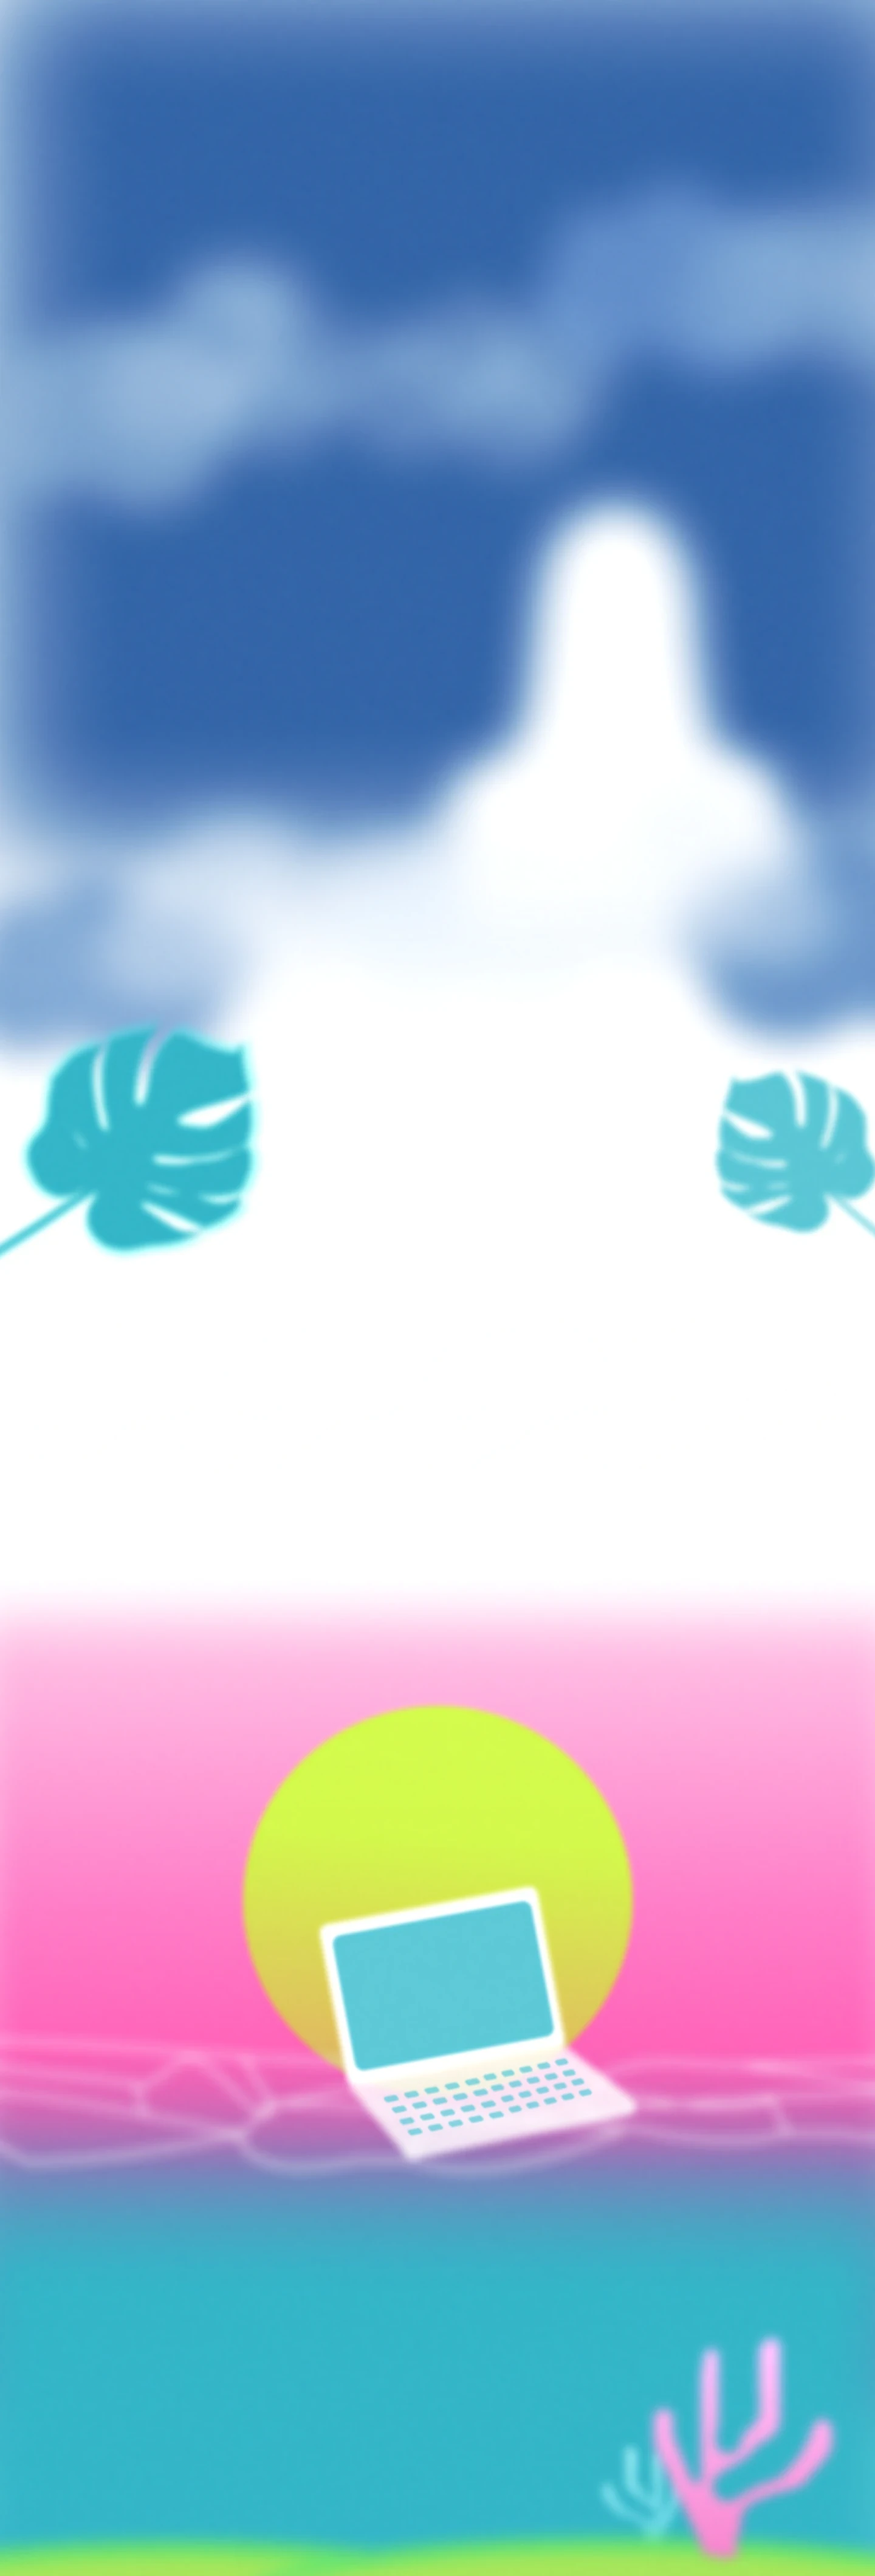
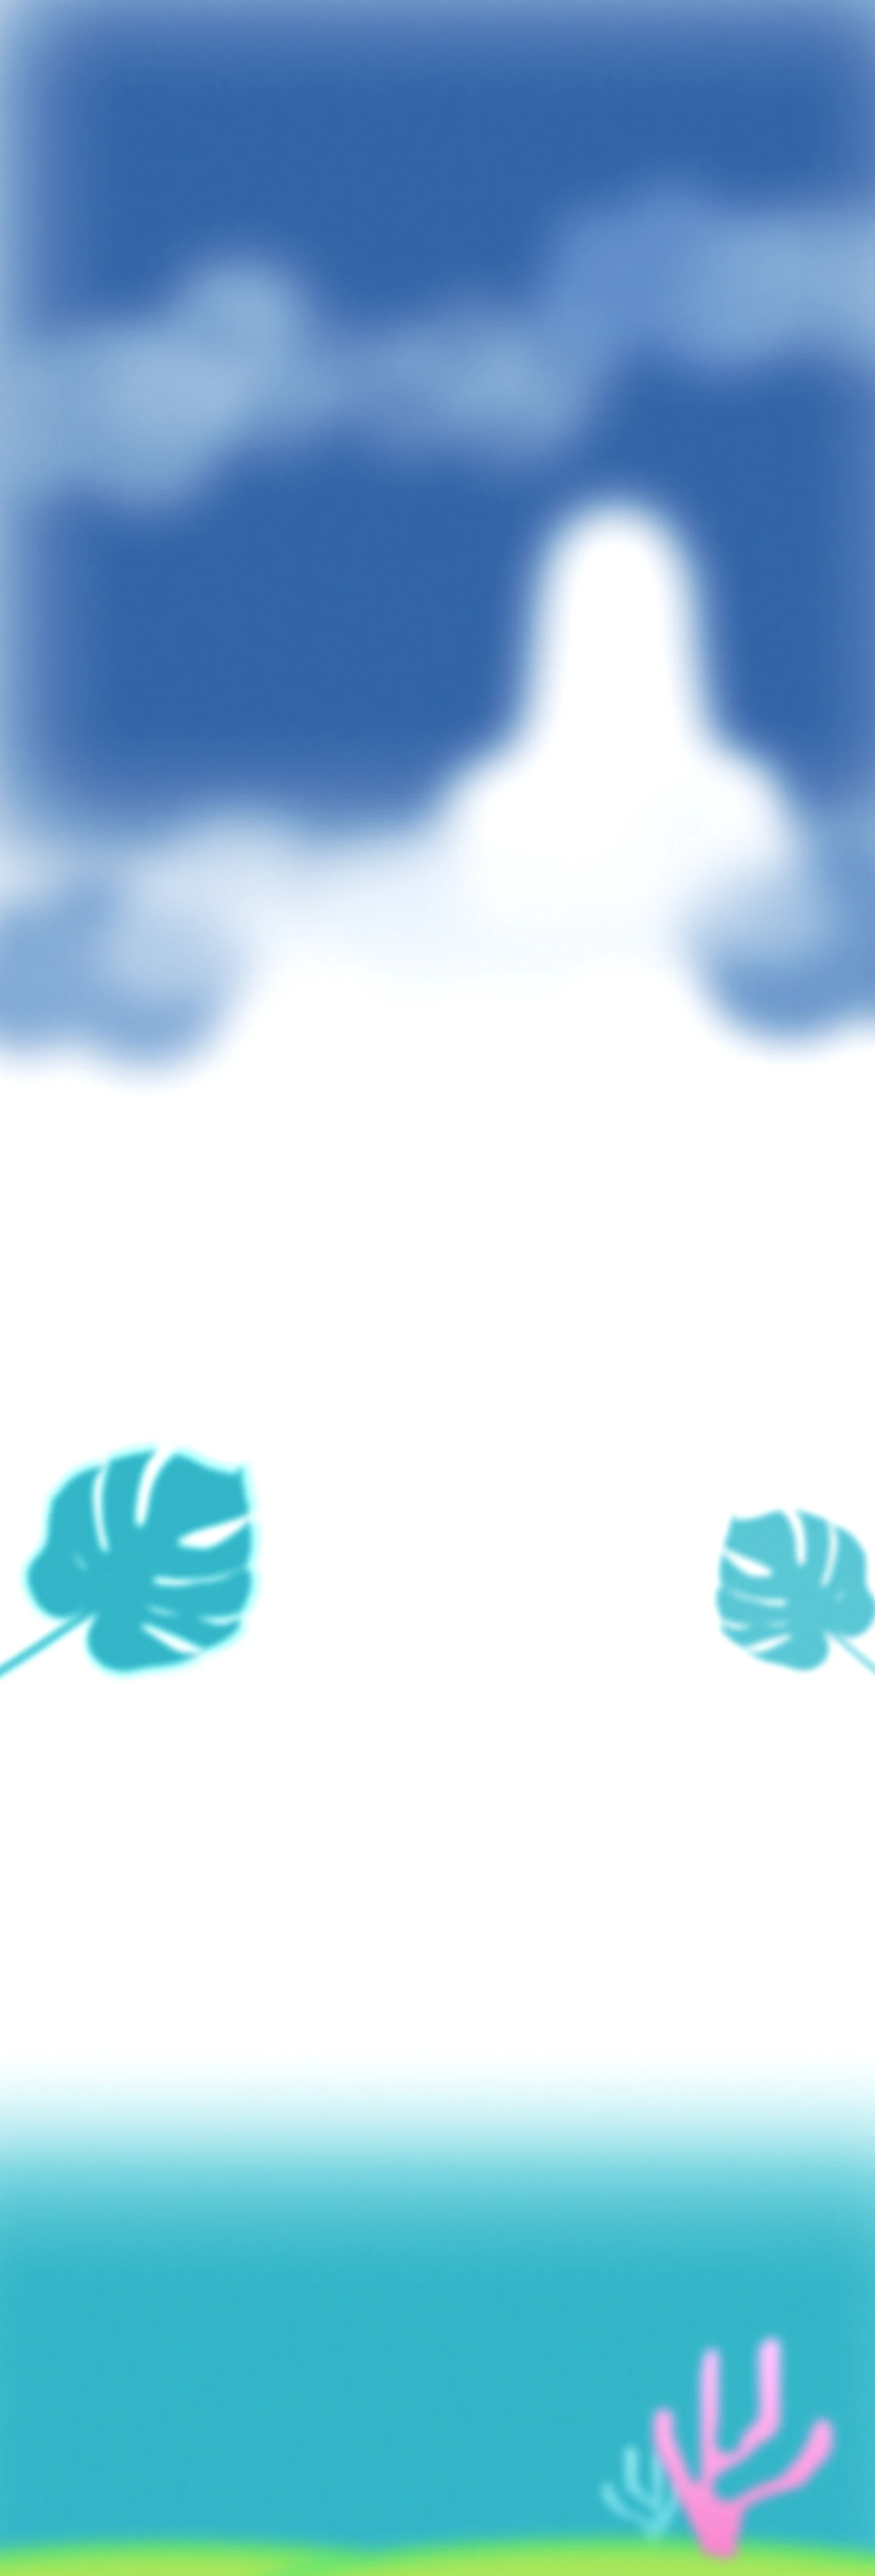
Sentence-case body copy, no pink sunset, scroll-driven sun
- Body copy (intro, hint, email, project sheet and About pop-up text) is no
  longer forced to uppercase; fixed the casing/spacing quirks caps hid.
  Labels and tags stay uppercase.
- Background re-exported from the current Figma design: no pink behind the
  sun, leaves in their new place, no chameleons. Colours re-calibrated against
  the film grain.
- Sun, water lines and laptop are now separate SVG layers (same stacking as
  Figma). As the section scrolls into view the sun travels from small on the
  right to full size in its place behind the laptop.
- Chameleon area scaled to fit the white space above the leaves (peek/eye
  maths now use the stage's on-screen scale).
- Everything still hidden is revealed once the page is scrolled to the bottom.

Claude-Session: https://claude.ai/code/session_01DvA43kwznhfsetrajp2DeL

Changed region(s): [[0.0, 0.5608, 1.0, 0.8723], [0.0, 0.3738, 0.3125, 0.4985], [0.8125, 0.405, 1.0, 0.4985]]

diff --git a/index.html b/index.html
@@ -8,19 +8,25 @@
   <link rel="preconnect" href="https://fonts.googleapis.com">
   <link rel="preconnect" href="https://fonts.gstatic.com" crossorigin>
   <link rel="stylesheet" href="https://fonts.googleapis.com/css2?family=Archivo:wdth,wght@125,400;125,700&family=Italiana&family=Unbounded:wght@300;400;500&display=swap">
-  <link rel="stylesheet" href="styles.css?v=c2dd69b6">
+  <link rel="stylesheet" href="styles.css?v=46f8f333">
   <script>document.documentElement.classList.add('js')</script>
 </head>
 <body>
   <!-- Built from Figma frame "Main" (1440 × 4237). The artwork is one exported
-       background image (minus the bird and fish, layered on top); display headings are outlined SVGs exported from Figma
+       background image (bird, fish, sun, water lines and laptop are separate layers on top); display headings are outlined SVGs exported from Figma
        (exact letterforms); body text, nav, button and icons are live HTML at
        their Figma positions. script.js scales the 1440px stage to the viewport. -->
   <main class="stage" id="home">
 
     <!-- Animated creatures, layered over the background at their Figma positions -->
     <img class="l bird" style="--x:-6.61px;--y:239.23px;--w:1328.29px;--h:558.57px" src="assets/bird.webp" alt="">
+
+    <!-- Sunset: the sun rises from small on the right into place as you scroll (script.js);
+         water lines and laptop sit on top of it, as in Figma -->
+    <img class="l sun" id="sun" style="--x:390px;--y:2796px" src="assets/sun.svg" width="661" height="661" alt="">
+    <img class="l" style="--x:0px;--y:3331px" src="assets/waves.svg" width="1440" height="264" alt="">
     <img class="l fish" style="--x:-171px;--y:3317px;--w:3150px;--h:2100px" src="assets/fish.gif" alt="">
+    <img class="l" style="--x:513.1px;--y:3073px" src="assets/laptop.svg" width="553" height="496" alt="">
 
     <nav class="l reveal nav" style="--d:.35s;--x:1075.5px;--y:34px" aria-label="Main">
       <a href="#home">Home</a>
@@ -37,8 +43,8 @@
     <section class="sec" id="about" style="top:859px" aria-labelledby="hello">
       <h2 class="l reveal type" id="hello" style="--d:0s;--x:178.65px;--y:11.58px"><img src="assets/type-hello.svg" width="306" height="121" alt="Hello,"></h2>
       <div class="l reveal t-intro" style="--d:.15s;--x:176px;--y:156px;--w:473px">
-        <p>I’m Nika ,  a third-year student in Digital Design &amp; Development, currently specialising in Visual Design and Experience Design.</p>
-        <p>Inspired by all kind of creative fields, I’m Passionate about creating useful and inspiring projects.</p>
+        <p>I’m Nika, a third-year student in Digital Design &amp; Development, currently specialising in visual design and experience design.</p>
+        <p>Inspired by all kinds of creative fields, I’m passionate about creating useful and inspiring projects.</p>
       </div>
       <a class="l reveal btn" style="--d:.3s;--x:176px;--y:450px;--w:229px;--h:48px" href="#about" data-about>About me</a>
       <button class="l reveal qbtn" style="--d:.2s;--x:958.66px;--y:131.37px" data-about aria-label="Who is behind the question mark? Meet Nika"><img src="assets/type-question.svg" width="106" height="196" alt=""></button>
@@ -147,8 +153,8 @@
   </section>
   </div>
 
-  <script src="script.js?v=5da16400"></script>
+  <script src="script.js?v=d3dccaa7"></script>
   <script src="about.js?v=37dfe53c"></script>
-  <script src="chameleon.js?v=3ab5d1e9"></script>
+  <script src="chameleon.js?v=43d26cf4"></script>
 </body>
 </html>

diff --git a/styles.css b/styles.css
@@ -115,7 +115,6 @@ body::before {
 .t-intro {
   font: 20px/30px var(--font-body);
   color: var(--ice);
-  text-transform: uppercase;
 }
 .t-intro p + p { margin-top: 30px; }
 
@@ -125,7 +124,6 @@ body::before {
 .t-email {
   font: 20px/27px var(--font-body);
   color: var(--ice);
-  text-transform: uppercase;
   text-decoration: none;
 }
 .t-email:hover { text-decoration: underline; }
@@ -160,9 +158,7 @@ a:focus-visible { outline: 2px solid var(--white); outline-offset: 4px; }
 }
 
 .hint {
-  font: 14px/1.6 var(--font-body);
-  letter-spacing: .04em;
-  text-transform: uppercase;
+  font: 15px/1.6 var(--font-body);
   text-align: center;
   color: var(--c-body);
   white-space: normal !important;
@@ -176,7 +172,8 @@ a:focus-visible { outline: 2px solid var(--white); outline-offset: 4px; }
           mask: linear-gradient(180deg, transparent, #000 25%, #000 75%, transparent);
 }
 
-.cham-stage { position: absolute; left: 130px; top: 330px; width: 1180px; height: 600px; }
+/* scaled to fit the white space between "Select the projects" and the leaves */
+.cham-stage { position: absolute; left: 130px; top: 290px; width: 1180px; height: 600px; transform: scale(.82); transform-origin: 50% 0; }
 
 .bigcham { position: absolute; left: 50%; top: 50%; width: 620px; aspect-ratio: 600 / 400; transform: translate(-50%, -50%); pointer-events: none; }
 .bigcham .body {
@@ -243,7 +240,7 @@ a:focus-visible { outline: 2px solid var(--white); outline-offset: 4px; }
 }
 .sheet[hidden] { display: none; }
 .sheet.show { opacity: 1; }
-.sheet p, .sheet li, .sheet dd { text-transform: uppercase; letter-spacing: .04em; font-size: .9rem; }
+.sheet p, .sheet li, .sheet dd { font-size: .95rem; }
 .sheet p.tagline { text-transform: none; letter-spacing: normal; }
 .sheet button { font: inherit; color: inherit; }
 .sheet .label { font: 400 .72rem var(--f-label); letter-spacing: .14em; text-transform: uppercase; }
@@ -384,7 +381,7 @@ a:focus-visible { outline: 2px solid var(--white); outline-offset: 4px; }
 .notes { list-style: none; margin: 0; padding: 0; display: grid; gap: clamp(28px, 4vw, 48px); }
 .notes li { position: relative; display: grid; gap: 6px; font-size: 1rem; }
 .notes b { font: 400 .64rem var(--f-label); letter-spacing: .16em; text-transform: uppercase; color: var(--c-pink); }
-.notes li > span { font: .86rem/1.6 var(--font-body); letter-spacing: .04em; text-transform: uppercase; color: var(--c-body); }
+.notes li > span { font: .92rem/1.6 var(--font-body); color: var(--c-body); }
 .notes.left li { text-align: right; justify-items: end; padding-right: 26px; }
 .notes.right li { padding-left: 26px; }
 /* leader lines, like the annotations on a botanical plate */
@@ -458,3 +455,6 @@ a:focus-visible { outline: 2px solid var(--white); outline-offset: 4px; }
   .qbtn img, .pulse { animation: none; }
   .cloudpop .field-head, .cloudpop .plate, .cloudpop .toolbox, .portrait .frame, .notes li::before, .notes li::after { transition: none; }
 }
+
+/* ---------- Sunset ---------- */
+.sun { transform-origin: 50% 50%; will-change: transform; }

diff --git a/script.js b/script.js
@@ -25,7 +25,9 @@ let queued = false;
 function checkReveals() {
   queued = false;
   const line = window.innerHeight * 0.88;
-  for (const el of pending) if (el.getBoundingClientRect().top < line) reveal(el);
+  // at the very bottom of the page everything left is in view
+  const atBottom = window.scrollY + window.innerHeight >= document.documentElement.scrollHeight - 2;
+  for (const el of pending) if (atBottom || el.getBoundingClientRect().top < line) reveal(el);
 }
 function queueCheck() {
   if (!queued) { queued = true; requestAnimationFrame(checkReveals); }
@@ -38,3 +40,29 @@ window.observeReveals = (root = document) => {
 observeReveals();
 window.addEventListener('scroll', queueCheck, { passive: true });
 window.addEventListener('resize', queueCheck);
+
+// Sunset: as the section scrolls into view the sun travels from small on the
+// right into its place behind the laptop, growing to full size.
+const sun = document.getElementById('sun');
+const SUN = { cx: 720.5, cy: 3126.5 };          // final centre (design px)
+const SUN_START = { cx: 1010, cy: 2640, s: .22 }; // small, up on the right (clear of the leaf)
+const reduceMotion = matchMedia('(prefers-reduced-motion: reduce)').matches;
+
+function placeSun() {
+  const zoom = parseFloat(stage.style.zoom) || 1;
+  const viewH = window.innerHeight / zoom;                         // in design px
+  const viewBottom = window.scrollY / zoom + viewH;
+  // starts as the section comes into view, done once the sun sits just
+  // above the middle of the screen
+  const from = 2750, to = SUN.cy + viewH * .45;
+  let p = reduceMotion ? 1 : Math.min(1, Math.max(0, (viewBottom - from) / (to - from)));
+  p = p * p * (3 - 2 * p); // smoothstep
+  const s = SUN_START.s + (1 - SUN_START.s) * p;
+  const dx = (SUN_START.cx - SUN.cx) * (1 - p), dy = (SUN_START.cy - SUN.cy) * (1 - p);
+  sun.style.transform = `translate(${dx.toFixed(1)}px, ${dy.toFixed(1)}px) scale(${s.toFixed(3)})`;
+}
+let sunQueued = false;
+const queueSun = () => { if (!sunQueued) { sunQueued = true; requestAnimationFrame(() => { sunQueued = false; placeSun(); }); } };
+placeSun();
+window.addEventListener('scroll', queueSun, { passive: true });
+window.addEventListener('resize', queueSun);

diff --git a/chameleon.js b/chameleon.js
@@ -83,9 +83,10 @@
   const page = $('.stage'), work = $('#work');
   const stage = $('#chamStage'), cham = $('#bigcham'), chamBody = $('#chamBody'), eye = $('#eye'), pupil = $('#pupil');
   const peek = $('#peek'), peekImg = $('#peekImg'), peekCap = $('#peekCap');
-  // the page is scaled with CSS zoom; rects come back in screen pixels, so
-  // positions written back inside the stage are divided by the zoom
-  const zoom = () => parseFloat(page.style.zoom) || 1;
+  // the page is zoomed and the stage itself is scaled: rects come back in screen
+  // pixels, so offsets written back inside the stage are divided by this factor
+  const STAGE_W = 1180;
+  const zoom = () => stage.getBoundingClientRect().width / STAGE_W || 1;
 
   const names = PROJECTS.map((p, i) => {
     const b = document.createElement('button');
